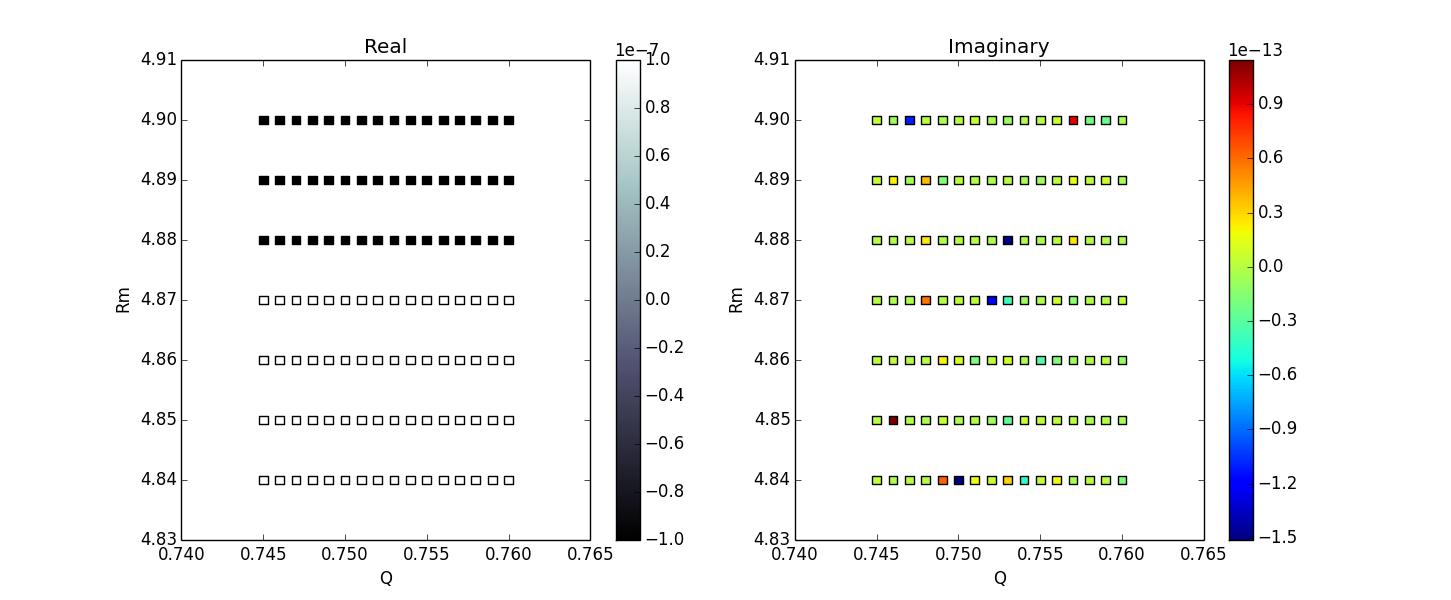
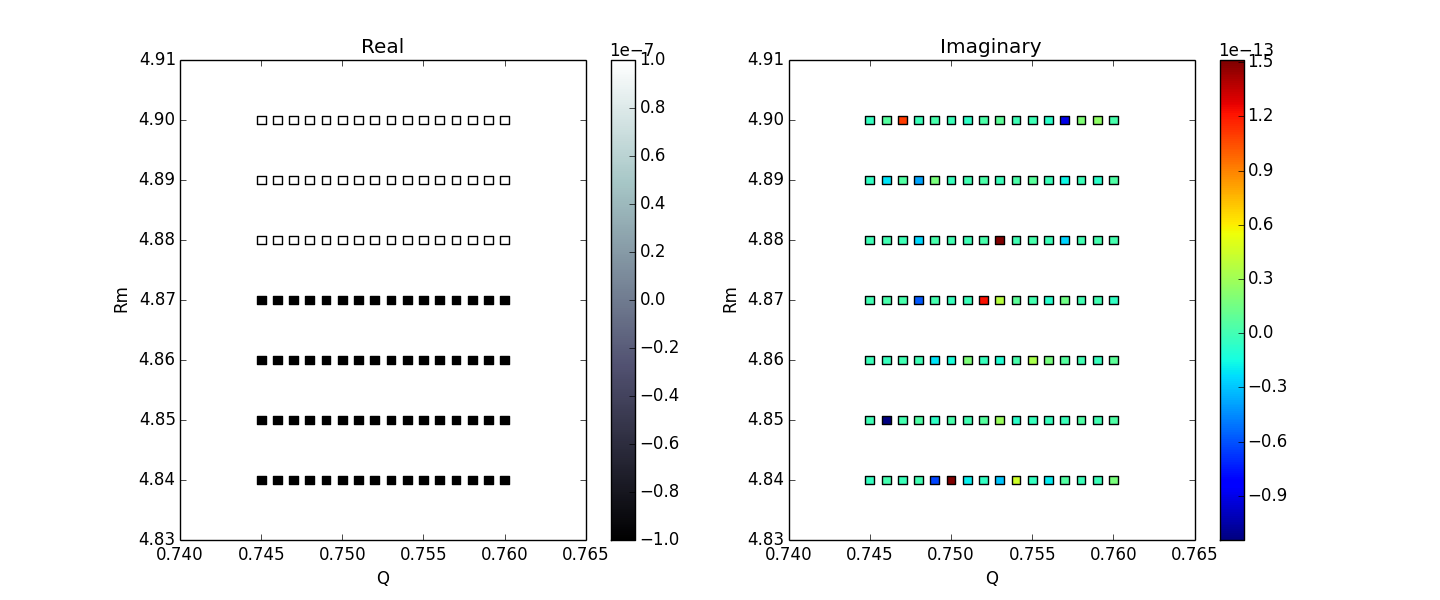
finer grids

diff --git a/python/multirun_paramspace.py b/python/multirun_paramspace.py
@@ -4,8 +4,12 @@ import numpy as np
 import pickle
 
 # Fine grid
-Qsearch = np.arange(0.745, 0.760, 0.001)
-Rmsearch = np.arange(4.84, 4.90, 0.01)
+#Qsearch = np.arange(0.745, 0.760, 0.001)
+#Rmsearch = np.arange(4.84, 4.90, 0.01)
+
+#Finest grid
+Qsearch = np.arange(0.749, 0.751, 0.001)
+Rmsearch = np.arange(4.87, 4.88, 0.001)
 
 # Coarsest grid (for comparison with Umurhan+_)
 #Qsearch = np.arange(0.1, 1.5, 0.1)
@@ -32,7 +36,7 @@ for k,proc in processes.items():
 
 print(results)
 
-pickle.dump(results, open("results_finegrid2.p", "wb"))
+pickle.dump(results, open("results_finegrid3.p", "wb"))
 
 #np.save("results_Qrange"+str(Qsearch[0])+"_to_"+str(Qsearch[-1])+"Rrange"+str(Rmsearch[0])+"_to_"+str(Rmsearch[-1])+".npy", results)
 #np.save("results_test.npy", results)

diff --git a/python/runsplottest.py b/python/runsplottest.py
@@ -16,7 +16,7 @@ for i in range(len(testdata)):
     Qs[i] = RmQ[1]
     eval[i] = jj[1]
     
-#eval = -1j*eval
+eval = -1*eval
 
 fig = plt.figure()
 ax1 = fig.add_subplot(121)

diff --git a/python/adjoint_homogenous.py b/python/adjoint_homogenous.py
@@ -19,7 +19,7 @@ q = 3/2.
 ifourpi = 1./(4*np.pi)
 
 #Parameter values found by solving the linear MRI to find most unstable mode
-Rm = 4.9
+Rm = 4.88
 iRm = 1./Rm
 Q = 0.75
 
